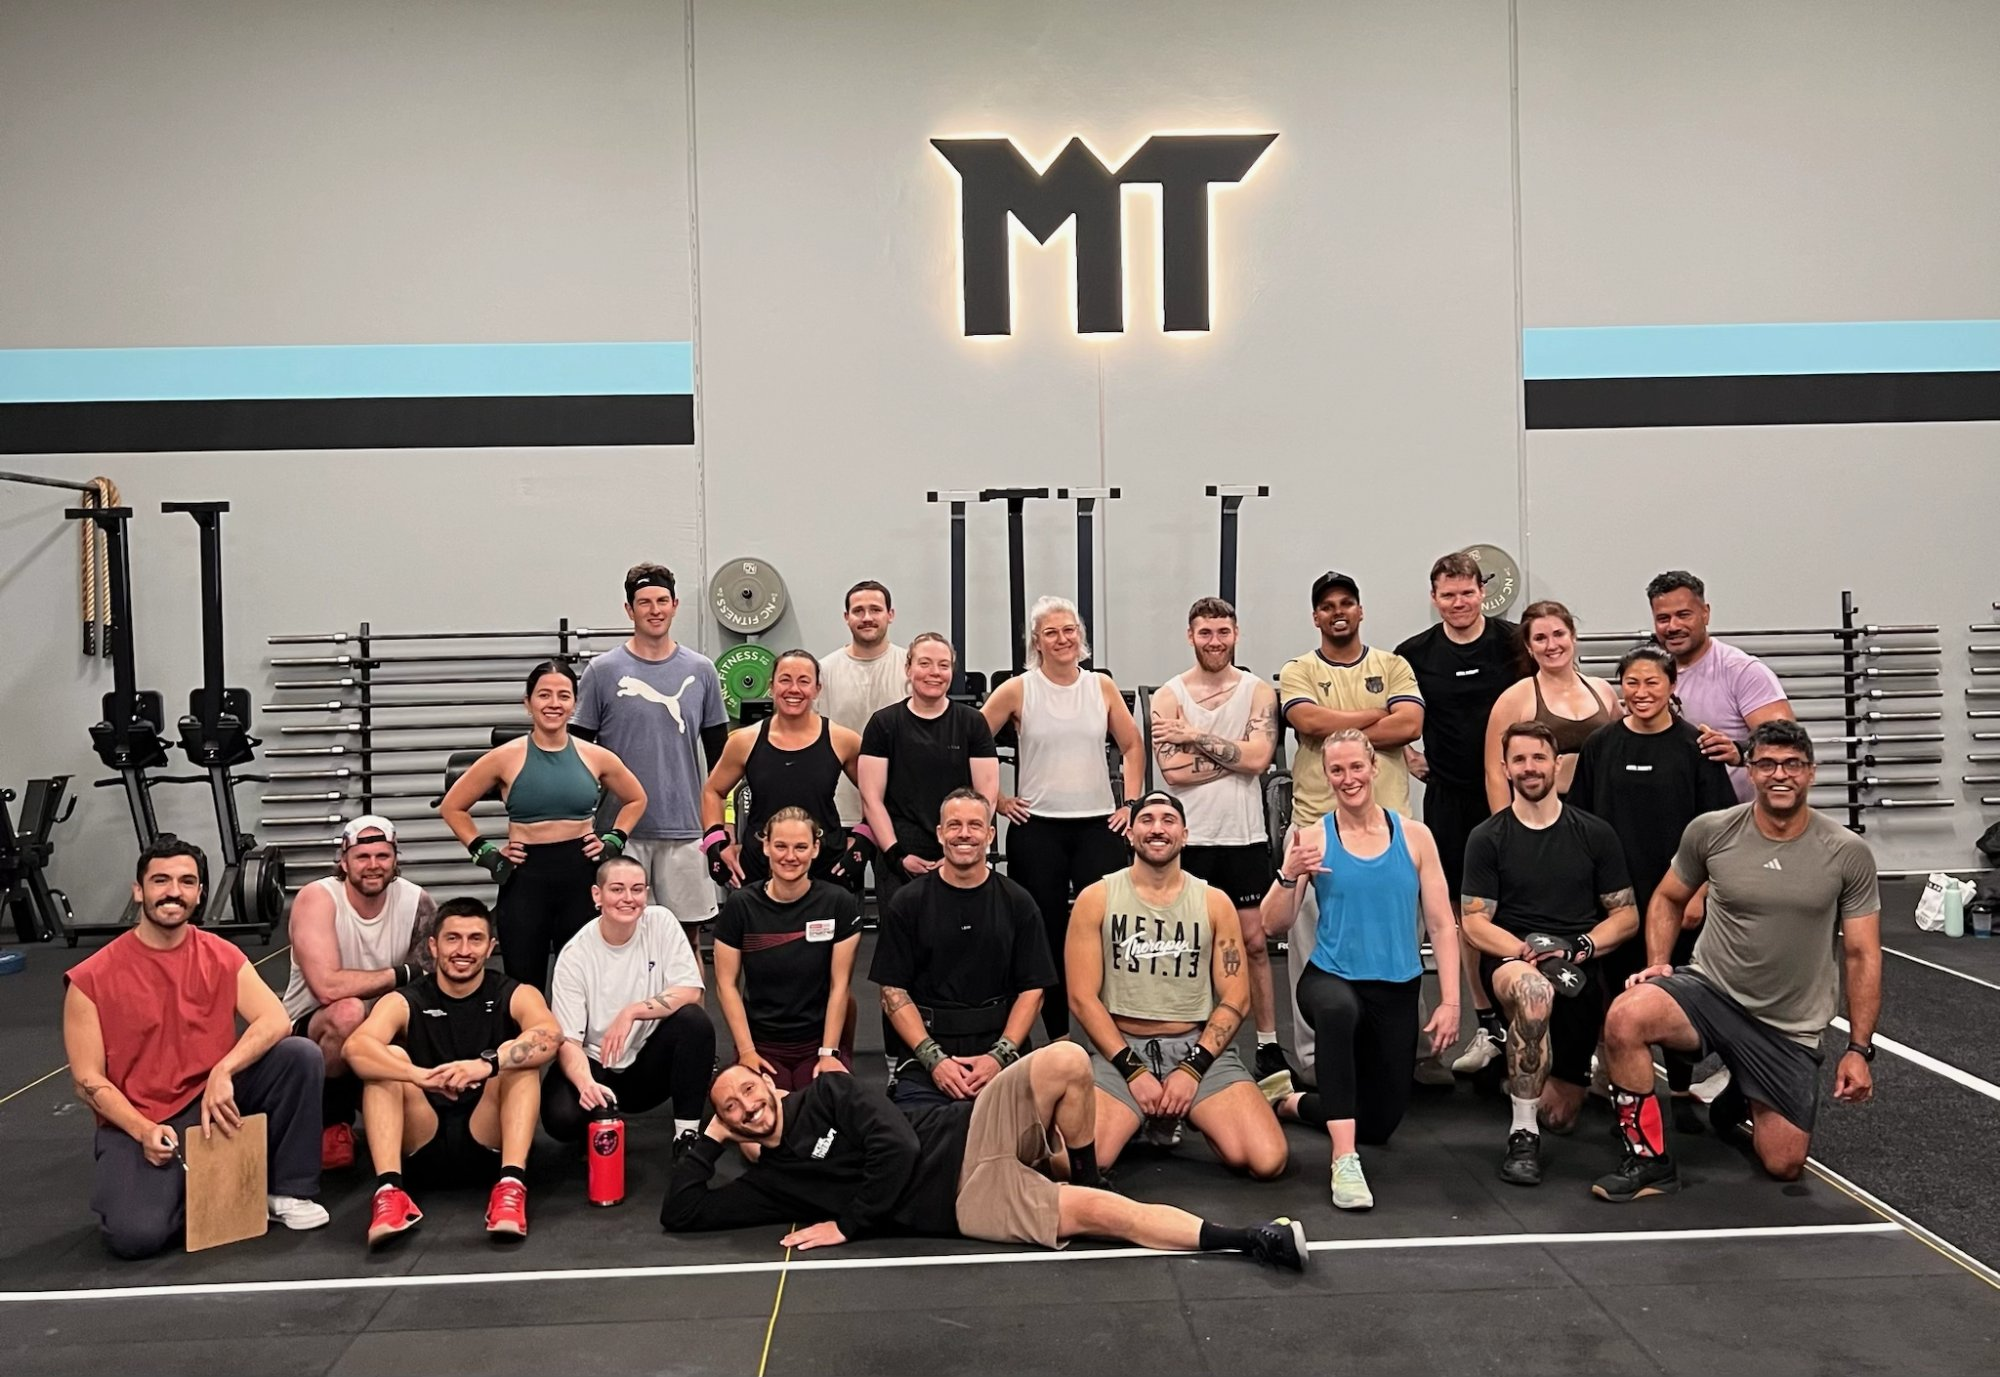
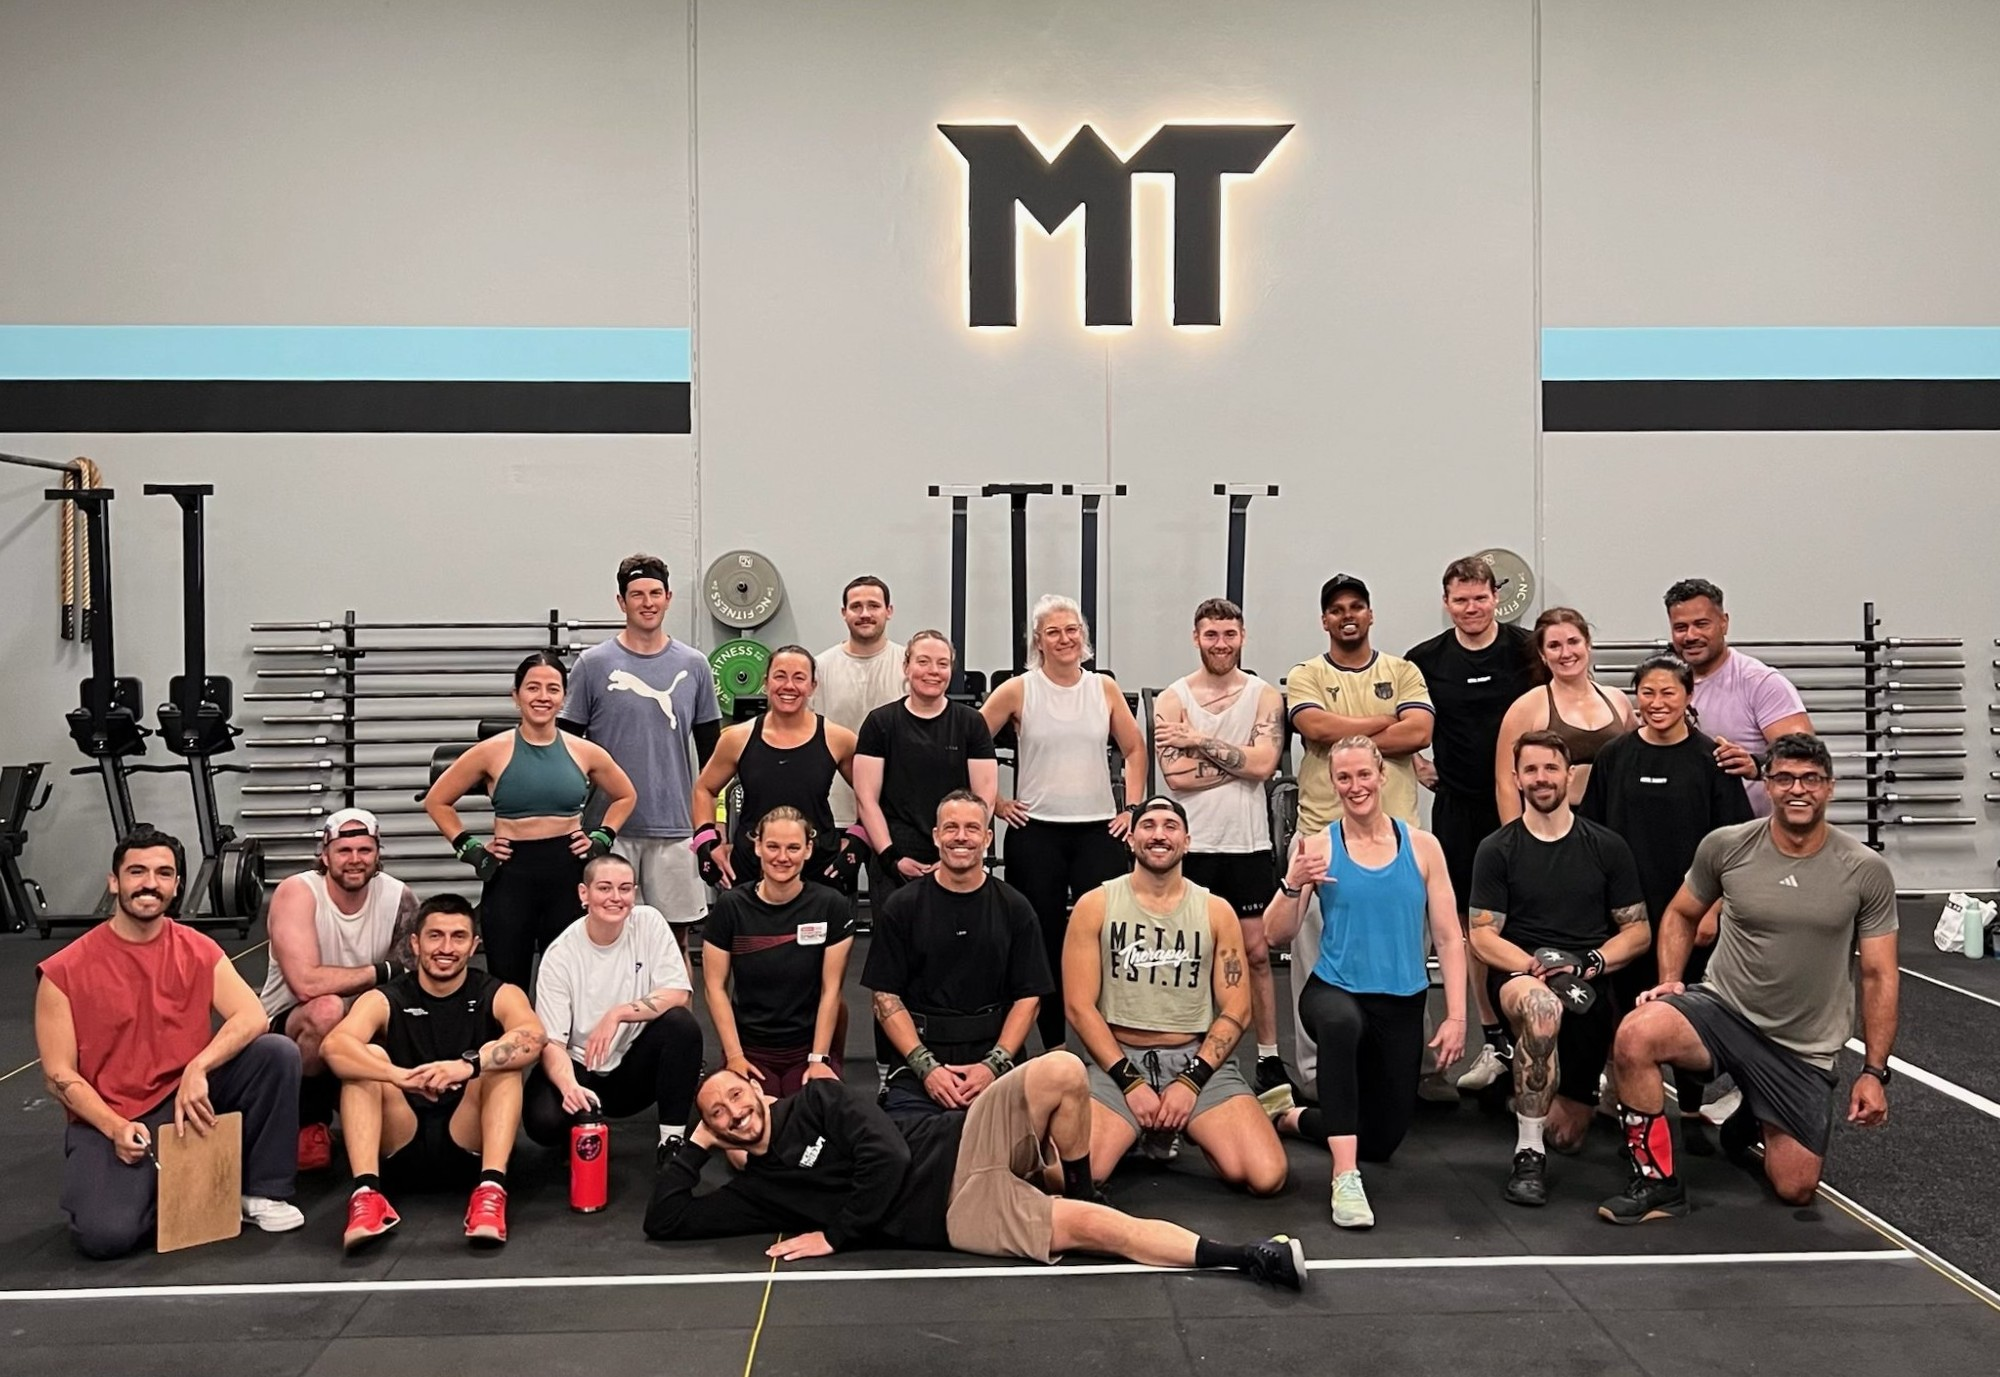
Left-aligned hero with cropped, straightened photo; reviewer names as first name + initial

diff --git a/index.html b/index.html
@@ -163,29 +163,28 @@
 
   /* ---------------- HERO ---------------- */
   .hero{
-    --hero-h:max(100svh, 77.8vw); /* tall enough to show the whole photo */
-    position:relative;min-height:var(--hero-h);display:flex;flex-direction:column;justify-content:flex-start;
-    padding:calc(var(--hero-h) * .27) 0 70px; /* headline starts just below the MT logo */
+    position:relative;display:flex;flex-direction:column;justify-content:center;
+    aspect-ratio:2/1;min-height:640px;
+    padding:96px 0 48px; /* clears the fixed nav */
     background:#0A0A0A;
     overflow:hidden;
   }
-  /* Photo is sized so its focal point (the MT logo / gap in the wall stripes, ~55.5% across)
-     sits dead centre behind the headline, with the logo kept at the top of the frame. */
+  /* Photo is anchored to the bottom and the top ~28% is cropped away, so the MT logo
+     above the group is out of frame and the hero is all people. */
   .hero::before{
-    content:"";position:absolute;z-index:0;top:0;bottom:0;left:50%;
-    aspect-ratio:2000/1377;min-width:113%;
-    transform:translateX(-55.5%);
-    background:url('hero-team.jpg') 55.5% 0% /cover no-repeat;
+    content:"";position:absolute;z-index:0;left:0;right:0;bottom:0;top:-38%;
+    background:url('hero-team.jpg') 52% 100% /cover no-repeat;
   }
   .hero::after{
     content:"";position:absolute;inset:0;z-index:1;
-    background:linear-gradient(180deg, rgba(10,10,10,.3) 0%, rgba(10,10,10,.38) 45%, rgba(10,10,10,.6) 75%, rgba(10,10,10,.9) 100%);
+    background:linear-gradient(90deg, rgba(10,10,10,.5) 0%, rgba(10,10,10,.22) 45%, rgba(10,10,10,0) 70%),
+      linear-gradient(180deg, rgba(10,10,10,.3) 0%, rgba(10,10,10,.38) 45%, rgba(10,10,10,.6) 75%, rgba(10,10,10,.9) 100%);
   }
-  .hero-inner{position:relative;z-index:2;text-align:center;display:flex;flex-direction:column;align-items:center;}
-  .hero h1{font-size:clamp(52px, 8.5vw, 124px);max-width:900px;text-shadow:0 2px 28px rgba(0,0,0,.35);}
+  .hero-inner{position:relative;z-index:2;text-align:left;display:flex;flex-direction:column;align-items:flex-start;max-width:none;margin:0;padding:0 clamp(24px,5vw,96px);}
+  .hero h1{font-size:clamp(52px, 7vw, 108px);max-width:900px;text-shadow:0 2px 28px rgba(0,0,0,.35);}
   .hero h1 em{font-style:normal;color:var(--accent);text-shadow:0 2px 22px rgba(0,0,0,.6);}
   .hero-sub{font-size:19px;line-height:1.65;color:var(--off-white);max-width:560px;margin:26px 0 34px;text-shadow:0 1px 14px rgba(0,0,0,.7);}
-  .hero-ctas{display:flex;flex-direction:column;align-items:center;gap:16px;}
+  .hero-ctas{display:flex;flex-direction:column;align-items:flex-start;gap:16px;}
 
   /* ---------------- SECTION SHELL ---------------- */
   section{position:relative;padding:80px 0;}
@@ -379,6 +378,9 @@
     .photo-tile{aspect-ratio:4/3;}
     .contact .wrap{grid-template-columns:1fr;}
   }
+  @media (max-width:700px){
+    .hero{aspect-ratio:auto;min-height:100svh;justify-content:flex-end;padding:96px 0 56px;}
+  }
   @media (max-width:560px){
     .wrap{padding:0 20px;}
     section{padding:80px 0;}
@@ -506,22 +508,22 @@
       <div class="t-card">
         <span class="stars">★★★★★</span>
         <p>"I've been to a few gyms over the years, but this CrossFit gym is honestly in a league of its own. From day one, I felt completely welcomed—no cliques, no egos, just genuinely kind people who want to see you do well. The coaches are incredible. They're not only knowledgeable and attentive, but they actually care."</p>
-        <div class="t-who"><div class="t-avatar">S</div><span>Sarah Dillon</span></div>
+        <div class="t-who"><div class="t-avatar">S</div><span>Sarah D.</span></div>
       </div>
       <div class="t-card">
         <span class="stars">★★★★★</span>
         <p>"I would give this place 6 stars out of 5 if I could! I am loving my experience training with Gabriel and his crew. Such a fun environment, we all have a laugh, and I leave every session exhausted and stronger."</p>
-        <div class="t-who"><div class="t-avatar">F</div><span>Frankie C</span></div>
+        <div class="t-who"><div class="t-avatar">F</div><span>Frankie C.</span></div>
       </div>
       <div class="t-card">
         <span class="stars">★★★★★</span>
         <p>"This CF gym isn't just about the workouts, the people are genuinely awesome. The members and the coaches are what makes it a community. I've learned so much and gained so much in strength and fitness. You are supported no matter what level you are at. Thanks for creating something special Gab and the MT crew"</p>
-        <div class="t-who"><div class="t-avatar">T</div><span>Tiff Lockyer</span></div>
+        <div class="t-who"><div class="t-avatar">T</div><span>Tiff L.</span></div>
       </div>
       <div class="t-card">
         <span class="stars">★★★★★</span>
         <p>"Love the Metal Therapy crew! Gab's focus on technique provided with a fantastic foundation to my CrossFit journey. I've continued to improve since, with tremendous support from the community. Highly recommend"</p>
-        <div class="t-who"><div class="t-avatar">M</div><span>Michael Leroy</span></div>
+        <div class="t-who"><div class="t-avatar">M</div><span>Michael L.</span></div>
       </div>
     </div>
   </div>
